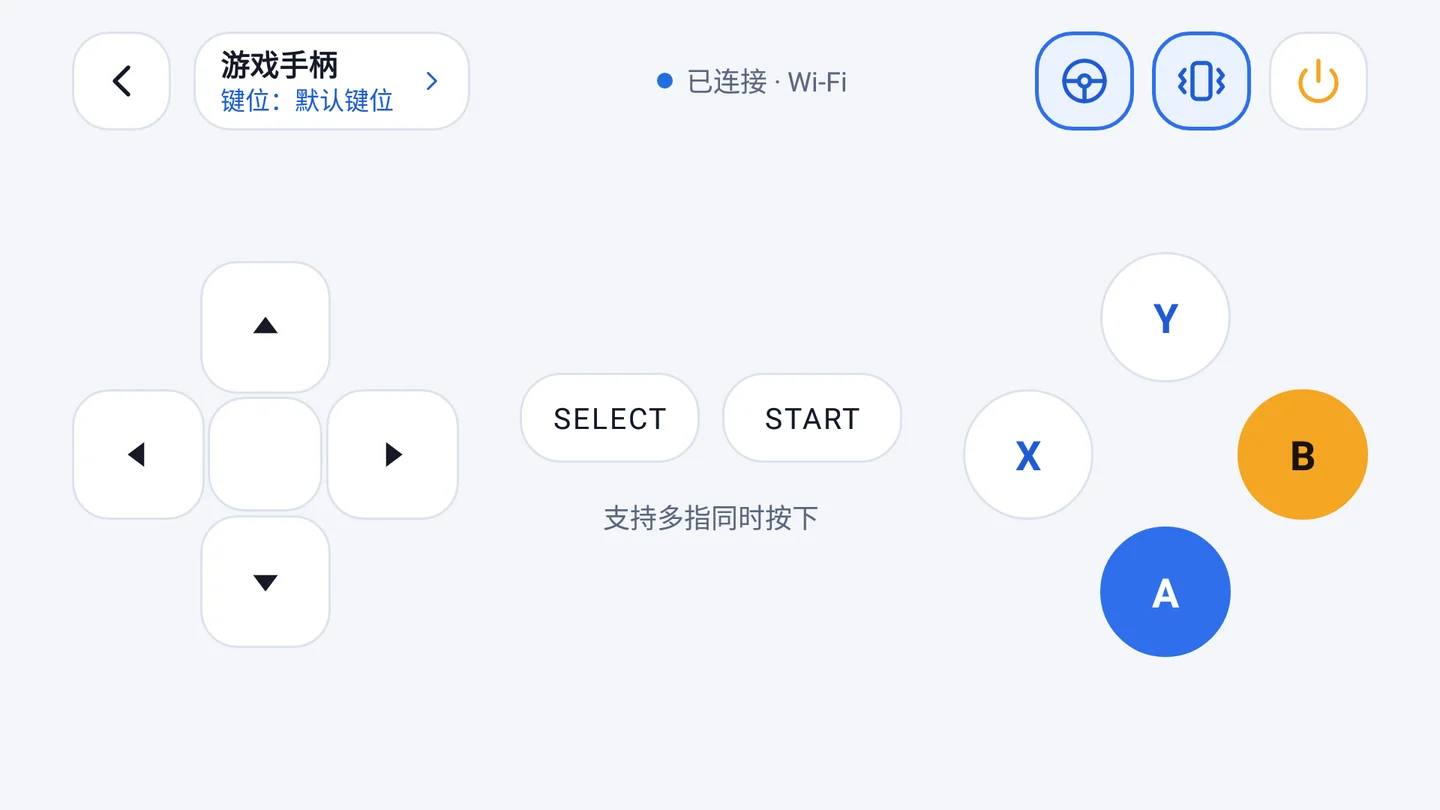
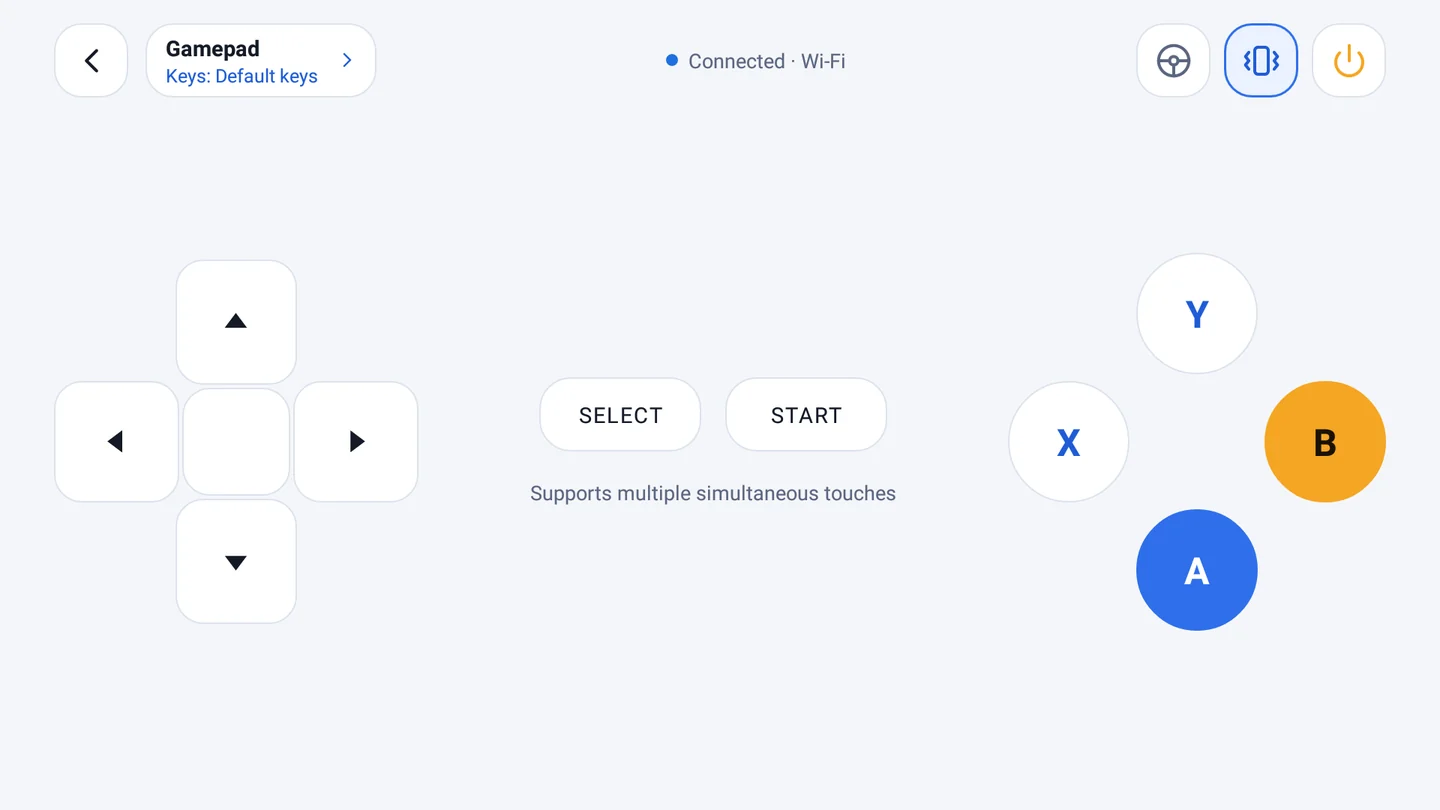
Refresh English screenshots and shorten button labels

diff --git a/design/fastlane_assets.py b/design/fastlane_assets.py
@@ -1,15 +1,17 @@
 """Store listing graphics under fastlane/metadata/android/<locale>/images/.
 
 Run: python -I design/fastlane_assets.py
-Writes, for every locale:
+Writes, for every locale (or one locale with --locale en-US):
   icon.png                 512x512 full-bleed icon (stores apply their own mask)
   featureGraphic.png       1024x500 banner
-  phoneScreenshots/N.png   PNG copies of website/assets/screens/*-light.webp
+  phoneScreenshots/N.png   PNG copies of the locale's *-light.webp images
+English images are read from website/assets/screens/en/.
 Screenshots taller than 2:1 are padded sideways with the screen's own
 background colour, because Google Play rejects a long side over twice the short
 side. The texts next to the images are hand-written; this only draws pixels.
 """
 import sys
+import argparse
 from pathlib import Path
 
 from PIL import Image, ImageDraw, ImageFont
@@ -57,12 +59,12 @@ def max_ratio(im, ratio=2.0):
     return out
 
 
-def feature(title, subtitle, bold, regular):
+def feature(title, subtitle, bold, regular, screens):
     W, H = 1024, 500
     im = Image.new("RGB", (W, H), logo.BLUE)
     d = ImageDraw.Draw(im)
     # phone screenshot on the right, cut off by the bottom edge
-    shot = Image.open(SCREENS / "main-light.webp").convert("RGB")
+    shot = Image.open(screens / "main-light.webp").convert("RGB")
     sw = 300
     shot = shot.resize((sw, round(shot.height * sw / shot.width)), Image.LANCZOS)
     frame = Image.new("RGB", (sw + 24, shot.height + 24), "#1B4FB8")
@@ -94,15 +96,21 @@ def feature(title, subtitle, bold, regular):
 
 
 def main():
+    parser = argparse.ArgumentParser(description=__doc__)
+    parser.add_argument("--locale", choices=LOCALES)
+    args = parser.parse_args()
     ic = icon()
-    shots = [max_ratio(Image.open(SCREENS / f"{n}-light.webp").convert("RGB")) for n in SHOTS]
     for loc, (title, subtitle, bold, regular) in LOCALES.items():
+        if args.locale and loc != args.locale:
+            continue
+        screens = SCREENS / "en" if loc == "en-US" else SCREENS
+        shots = [max_ratio(Image.open(screens / f"{n}-light.webp").convert("RGB")) for n in SHOTS]
         out = META / loc / "images"
         (out / "phoneScreenshots").mkdir(parents=True, exist_ok=True)
         for old in (out / "phoneScreenshots").glob("*.png"):
             old.unlink()
         ic.save(out / "icon.png", optimize=True)
-        feature(title, subtitle, bold, regular).save(out / "featureGraphic.png", optimize=True)
+        feature(title, subtitle, bold, regular, screens).save(out / "featureGraphic.png", optimize=True)
         for i, s in enumerate(shots, 1):
             s.save(out / "phoneScreenshots" / f"{i}.png", optimize=True)
         print(loc, "->", out.relative_to(ROOT))

diff --git a/design/export_device_shots.py b/design/export_device_shots.py
@@ -1,6 +1,9 @@
 """Turn raw device screenshots into the website's phone images.
 
 Run: python -I design/export_device_shots.py <raw_dir> website/assets/screens
+English: use website/assets/screens/en as the output directory.
+Use --status-bar <pixels> for a different status bar height. If the remote
+fits in one screen, pass --single-screen-remote to skip stitching.
 
 <raw_dir> holds `adb exec-out screencap -p` PNGs from a 1080x1920 phone, one set
 per theme (switch it in 设置 → 外观), named <page>-<dark|light>.png for
@@ -9,11 +12,19 @@ tvremote-<theme>.png and tvremote-<theme>-bottom.png (the remote scrolled to
 its end; the two are stitched). The status bar is cropped and the landscape
 gamepad, which screencap returns sideways, is rotated upright.
 """
-import os, sys
+import argparse
+import os
 from PIL import Image, ImageChops
 
-src, dst = sys.argv[1], sys.argv[2]
-BAR = 60          # status bar height on the device
+parser = argparse.ArgumentParser(description=__doc__)
+parser.add_argument('src')
+parser.add_argument('dst')
+parser.add_argument('--status-bar', type=int, default=60)
+parser.add_argument('--single-screen-remote', action='store_true')
+args = parser.parse_args()
+src, dst = args.src, args.dst
+os.makedirs(dst, exist_ok=True)
+BAR = args.status_bar  # status bar height on the device
 PHONE_W = 720     # output width for portrait shots
 
 
@@ -62,6 +73,11 @@ for theme, suffix in (('dark', ''), ('light', '-light')):
     for page in ('main', 'gamepadscheme', 'keyedit', 'ppt', 'tvnumpad', 'tvvoice'):
         im = load('%s-%s' % (page, theme))
         save(im.crop((0, BAR, im.width, im.height)), page + suffix, PHONE_W)
-    save(stitch(load('tvremote-' + theme), load('tvremote-%s-bottom' % theme)), 'tvremote' + suffix, PHONE_W)
+    remote = load('tvremote-' + theme)
+    if args.single_screen_remote:
+        remote = remote.crop((0, BAR, remote.width, remote.height))
+    else:
+        remote = stitch(remote, load('tvremote-%s-bottom' % theme))
+    save(remote, 'tvremote' + suffix, PHONE_W)
     gp = load('gamepad-' + theme).rotate(90, expand=True)
     save(gp, 'gamepad' + suffix, 1440)

diff --git a/app/src/main/java/com/whyun/activity/GamepadSchemeActivity.java b/app/src/main/java/com/whyun/activity/GamepadSchemeActivity.java
@@ -160,7 +160,8 @@ public class GamepadSchemeActivity extends AppCompatActivity implements IBlueToo
 			row.setSelected(on);
 			row.findViewById(R.id.scheme_current).setVisibility(on ? View.VISIBLE : View.GONE);
 		}
-		btnOpen.setText(getString(R.string.open_scheme, selectedName()));
+		btnOpen.setText(R.string.open_gamepad_action);
+		btnOpen.setContentDescription(getString(R.string.open_scheme, selectedName()));
 	}
 
 	private String selectedName() {

diff --git a/README.en.md b/README.en.md
@@ -4,16 +4,16 @@
 
 Turn your phone into a gamepad, remote control and keyboard for your PC. The phone and the PC talk directly over Wi‑Fi or Bluetooth — no server in between.
 
-> The app's interface is currently available in Simplified Chinese only.
+> The Android app supports English and Simplified Chinese and follows your phone's system language.
 
 <p align="center">
-  <picture><source media="(prefers-color-scheme: dark)" srcset="website/assets/screens/main.webp"><img src="website/assets/screens/main-light.webp" width="180" alt="Home"></picture>
-  <picture><source media="(prefers-color-scheme: dark)" srcset="website/assets/screens/ppt.webp"><img src="website/assets/screens/ppt-light.webp" width="180" alt="Presentation"></picture>
-  <picture><source media="(prefers-color-scheme: dark)" srcset="website/assets/screens/tvvoice.webp"><img src="website/assets/screens/tvvoice-light.webp" width="180" alt="Voice input"></picture>
-  <picture><source media="(prefers-color-scheme: dark)" srcset="website/assets/screens/gamepadscheme.webp"><img src="website/assets/screens/gamepadscheme-light.webp" width="180" alt="Key mapping profiles"></picture>
+  <picture><source media="(prefers-color-scheme: dark)" srcset="website/assets/screens/en/main.webp"><img src="website/assets/screens/en/main-light.webp" width="180" alt="Home"></picture>
+  <picture><source media="(prefers-color-scheme: dark)" srcset="website/assets/screens/en/ppt.webp"><img src="website/assets/screens/en/ppt-light.webp" width="180" alt="Presentation"></picture>
+  <picture><source media="(prefers-color-scheme: dark)" srcset="website/assets/screens/en/tvvoice.webp"><img src="website/assets/screens/en/tvvoice-light.webp" width="180" alt="Voice input"></picture>
+  <picture><source media="(prefers-color-scheme: dark)" srcset="website/assets/screens/en/gamepadscheme.webp"><img src="website/assets/screens/en/gamepadscheme-light.webp" width="180" alt="Key mapping profiles"></picture>
 </p>
 <p align="center">
-  <picture><source media="(prefers-color-scheme: dark)" srcset="website/assets/screens/gamepad.webp"><img src="website/assets/screens/gamepad-light.webp" width="560" alt="Gamepad"></picture>
+  <picture><source media="(prefers-color-scheme: dark)" srcset="website/assets/screens/en/gamepad.webp"><img src="website/assets/screens/en/gamepad-light.webp" width="560" alt="Gamepad"></picture>
 </p>
 
 - **Gamepad**: landscape, two hands — D‑pad, A / B / X / Y, Select and Start. Multi‑touch, tilt control, and a separate key‑mapping profile per game; each button can send a combination of up to 3 keys.
@@ -37,14 +37,14 @@ The PC app's source code lives in [bluehandle-go](https://github.com/bluehandle-
 ## Quick start
 
 1. Run `bluehandle.exe` on your PC.
-2. Open BlueHandle on your phone, choose Wi‑Fi or Bluetooth, and tap 开始连接 (Connect).
+2. Open BlueHandle on your phone, choose Wi‑Fi or Bluetooth, and tap Connect.
    - Wi‑Fi: put the phone and the PC on the same network, then enter the address shown on the phone's home screen into the PC app (default port 8088).
    - Bluetooth: pair the phone with the PC in system settings first, then pick the phone from the PC app's Bluetooth list.
 3. Once connected, choose a mode on the home screen. Switching modes or going back home keeps the connection alive.
 
 <p align="center">
-  <img src="website/assets/screens/pc-connect.webp" width="280" alt="PC app: choose a connection">
-  <img src="website/assets/screens/pc-connected.webp" width="280" alt="PC app: connected">
+  <img src="website/assets/screens/en/pc-connect.webp" width="280" alt="PC app: choose a connection">
+  <img src="website/assets/screens/en/pc-connected.webp" width="280" alt="PC app: connected">
 </p>
 
 See the user manual [bluehandle.pages.dev/manual](https://bluehandle.pages.dev/manual) (Chinese) for details.
@@ -60,11 +60,11 @@ See the user manual [bluehandle.pages.dev/manual](https://bluehandle.pages.dev/m
 
 **The PC app says "the phone refused the connection"**
 
-The PC found the phone, but the phone isn't waiting for a connection. Tap 开始连接 (Connect) on the phone and make sure both sides use the same port.
+The PC found the phone, but the phone isn't waiting for a connection. Tap Connect on the phone and make sure both sides use the same port.
 
 **My phone doesn't appear in the Bluetooth list**
 
-Pair the phone with the PC in Windows settings first, then click Refresh in the PC app. On the phone, select Bluetooth and tap 开始连接 (Connect).
+Pair the phone with the PC in Windows settings first, then click Refresh in the PC app. On the phone, select Bluetooth and tap Connect.
 
 **Connected, but keys do nothing in a certain program**
 
@@ -88,7 +88,6 @@ For more, see the [FAQ in the manual](https://bluehandle.pages.dev/manual#faq) o
 
 - Building requires JDK 21: `./gradlew assembleDebug`
 - The phone–PC protocol is documented in [`docs/protocol.md`](docs/protocol.md); the PC repository contains an identical copy.
-- `website/` holds the landing page and user manual (static pages); `design/` holds design mockups and the scripts that generate the logo and screenshots.
 - Pushing a `v*` tag makes GitHub Actions build, sign and publish the APK as a Release.
 
 ## License
